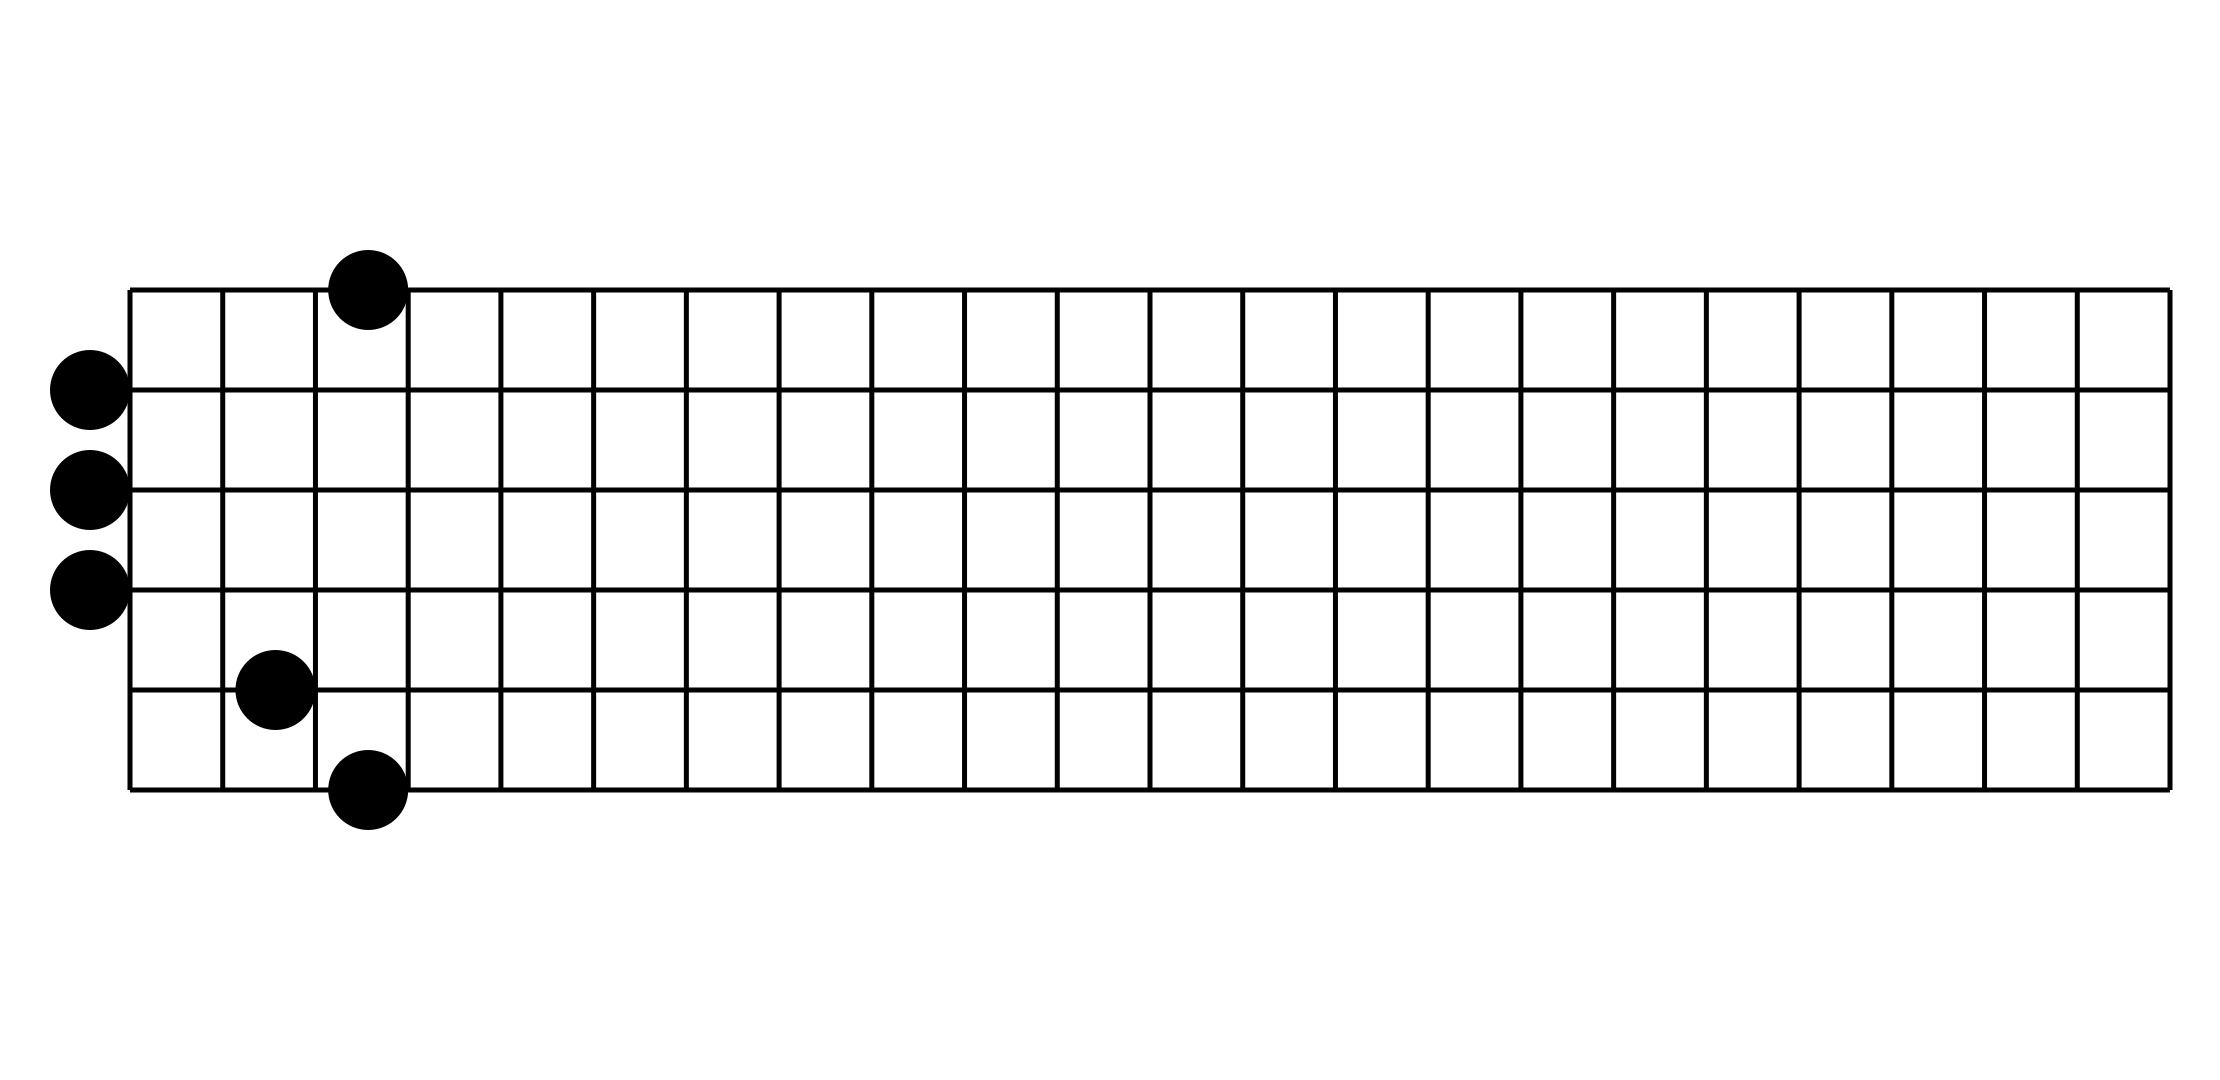
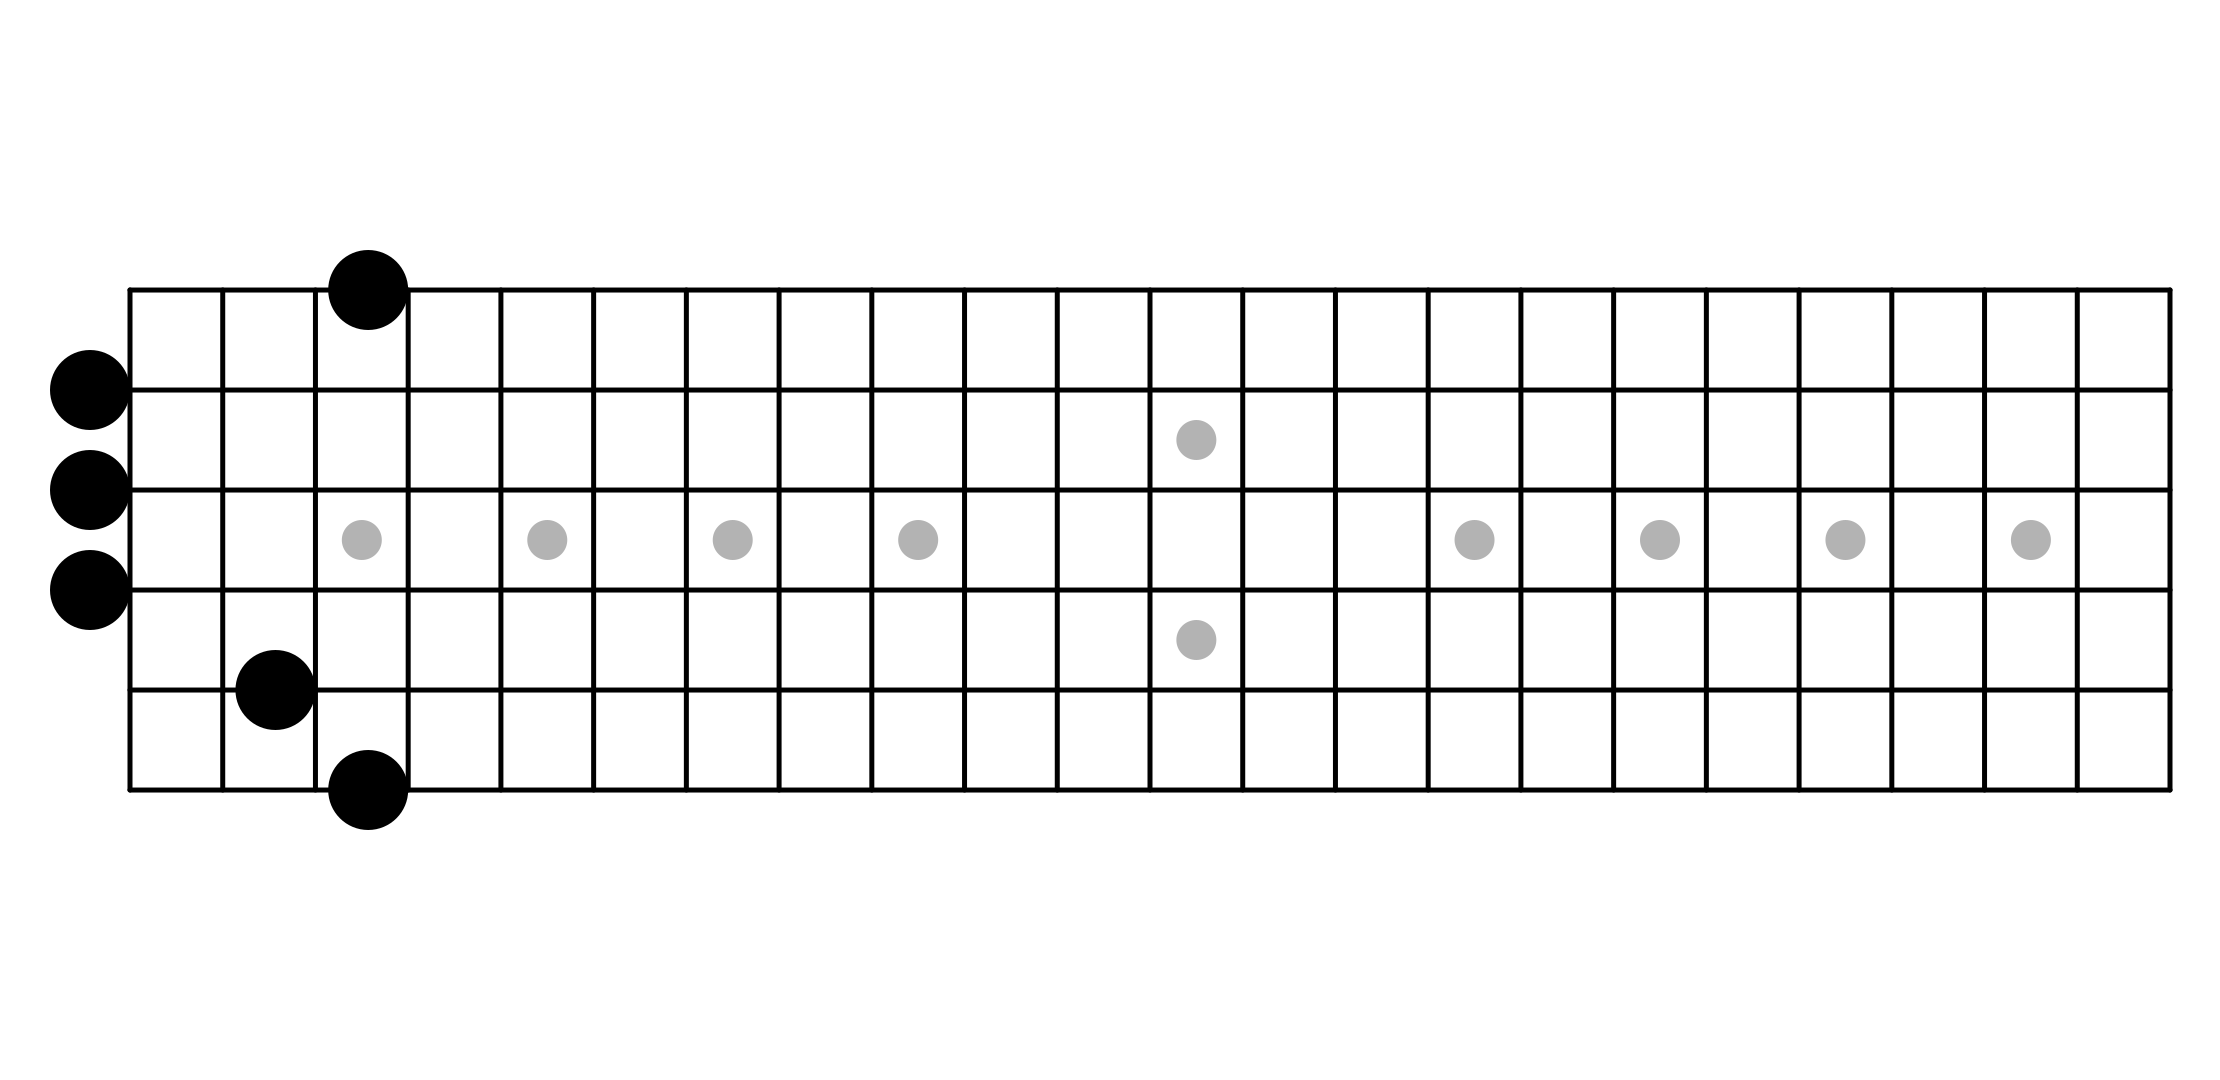
Draw inlays on fretboard.

diff --git a/fretboard.py b/fretboard.py
@@ -3,19 +3,17 @@ Draws images of a guitar fretboard with given notes marked.
 
 TODO:
 Wrap in CLI?
-Adapt to different string numbers: bass, ukelele, extended guitar.
 Show notes of open strings (tuning).
 MVP is static image of one scale one position, all markers same.
 Text labels on notes (note name or scale degree).
 Scale numbers as required.
-Draw inlays.
 Draw dimensions with padding etc.
 Optimise dimensions and DPI for phone and tablet (save both).
 How to integrate sheet music? Just paste as image?
 Enforce minimum sizes, line widths (not sub-pixel).
 Specify bounding box, dimensions within it normalised to [0, 1],
     use this to combine e.g. fretboard and piano in single frame.
-Can lines have rounded ends? If not, make own? Or switch to SVG?
+Adapt to different string numbers: bass, ukelele, extended guitar.
 """
 
 from dataclasses import dataclass
@@ -87,6 +85,7 @@ def draw_strings(context, normed_to_global):
         draw_line(context, start, finish)
 
 
+# TODO: refactor for single note so they can be different colours.
 def draw_notes(context, notes: List[NoteMarker], normed_to_global):
     for note in notes:
         r = 40  # TODO: account for this in padding. Make it smaller than closest fret.
@@ -95,6 +94,34 @@ def draw_notes(context, notes: List[NoteMarker], normed_to_global):
         centre = normed_to_global(Point(u, v))
         centre.x -= marker_radius
         draw_circle(context, centre, marker_radius)
+
+
+# TODO: grey: colour as arg. Common function to set colour. Named values.
+def draw_inlays(context: cairo.Context, normed_to_global):
+    def get_inlay_x_position(fret):
+        return (get_fret_x_position(fret) + get_fret_x_position(fret - 1))/2
+    
+    inlay_radius = marker_radius/2
+
+    rgb = 0.7
+    grey = (rgb, rgb, rgb)
+    context.set_source_rgb(*grey)
+    
+    for fret in [3, 5, 7, 9, 15, 17, 19, 21]:
+        u = get_inlay_x_position(fret)
+        v = 0.5
+        centre = normed_to_global(Point(u, v))
+        draw_circle(context, centre, inlay_radius)
+    
+    # Double inlay at 12th fret.
+    u = get_inlay_x_position(12)
+    offset = 0.2
+    v1 = 0.5 - offset
+    v2 = 0.5 + offset
+    centre1 = normed_to_global(Point(u, v1))
+    centre2 = normed_to_global(Point(u, v2))
+    draw_circle(context, centre1, inlay_radius)
+    draw_circle(context, centre2, inlay_radius)
 
 
 def get_transforms(top_left: Point, bottom_right: Point):
@@ -148,8 +175,10 @@ def main():
     black = (0, 0, 0)
     line_width = 5  # TODO: scale with image.
     context.set_line_width(line_width)
-    context.set_source_rgb(*black)
+    context.set_line_cap(cairo.LINE_CAP_ROUND)
 
+    draw_inlays(context, normed_to_global)
+    context.set_source_rgb(*black)
     draw_frets(context, normed_to_global)
     draw_strings(context, normed_to_global)
 

diff --git a/keyboard.py b/keyboard.py
@@ -13,6 +13,7 @@ Define vertices for each note then repeat for octaves.
     Check by colouring each key blue separately.
     Function to draw note: input note and colour (including transparency).
         Separate border and fill?
+    Explicitly draw white keys as white so not assuming white background.
 Operator overloads for point (add, subtract).
 Option to print note names on keys.
     Or scale degrees.
